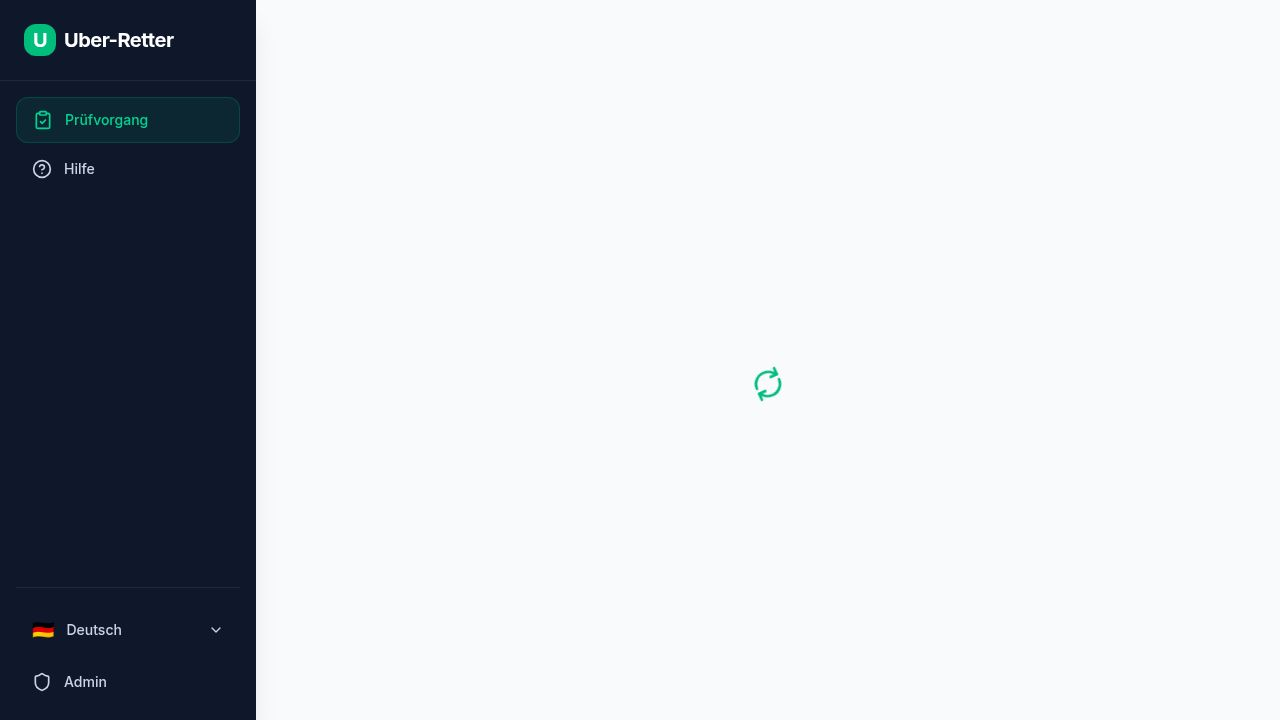
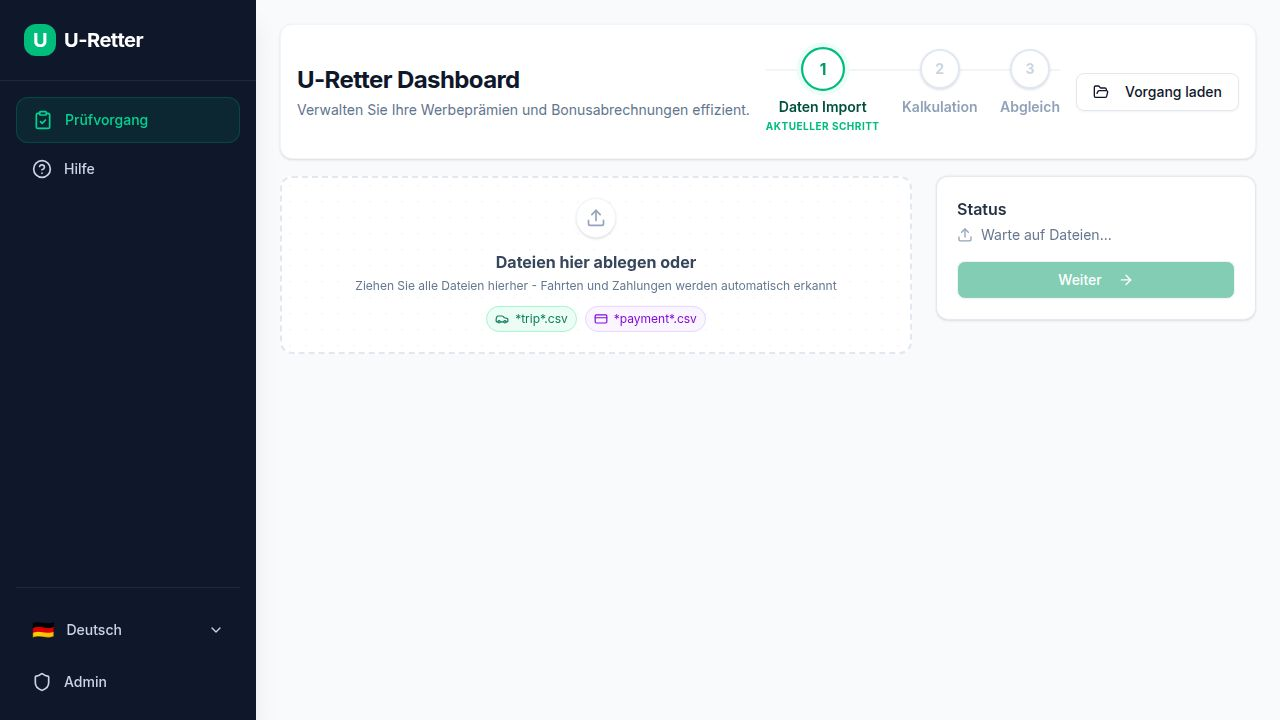
Improve session loading speed by optimizing trip data retrieval
Refactors session loading to use server-side aggregation for trip data, reducing payload size and improving client-side processing time.

Replit-Commit-Author: Agent
Replit-Commit-Session-Id: eda07c47-fa0f-4dfd-ad98-edfbeb6350f6
Replit-Commit-Checkpoint-Type: full_checkpoint
Replit-Commit-Event-Id: 282b914e-87ee-4452-8d91-b7e6b608185f
Replit-Commit-Screenshot-Url: https://storage.googleapis.com/screenshot-production-us-central1/74f01f64-59c9-4fe7-973c-309debf47daa/eda07c47-fa0f-4dfd-ad98-edfbeb6350f6/ajdi8i1
Replit-Helium-Checkpoint-Created: true

diff --git a/client/src/pages/dashboard.tsx b/client/src/pages/dashboard.tsx
@@ -8,7 +8,7 @@ import { DashboardLayout } from "@/components/layout";
 import { Card, CardContent } from "@/components/ui/card";
 import { Dialog, DialogContent, DialogHeader, DialogTitle, DialogDescription, DialogFooter } from "@/components/ui/dialog";
 import { UberTrip, UberTransaction } from "@/lib/types";
-import { processTripsAndTransactions, getMonthHeaders, analyzeTransactions, TransactionMatch } from "@/lib/data-processor";
+import { processTripsAndTransactions, processAggregatedTripsAndTransactions, getMonthHeaders, analyzeTransactions, TransactionMatch, AggregatedTrip } from "@/lib/data-processor";
 import { generateMockTrips, generateMockTransactions } from "@/lib/mock-data";
 import { RefreshCw, CarFront, BadgeEuro, ArrowRight, CheckCircle, AlertTriangle, Copy, Check, FolderOpen, Eye, CheckCircle2, XCircle, Plus, Upload, Download, AlertCircle } from "lucide-react";
 import { useToast } from "@/hooks/use-toast";
@@ -58,7 +58,8 @@ export default function Dashboard() {
   const showProgress = isProcessing || progress.isActive || uploadProgress !== null;
 
   const currentStep = sessionData?.currentStep || 1;
-  const trips = sessionData?.trips || [];
+  const aggregatedTrips: AggregatedTrip[] = sessionData?.aggregatedTrips || [];
+  const tripCount = sessionData?.tripCount || 0;
   const transactions = sessionData?.transactions || [];
 
   const updateStepMutation = useMutation({
@@ -176,14 +177,15 @@ export default function Dashboard() {
   };
 
   const { summaries, monthHeaders, totals, transactionAnalysis } = useMemo(() => {
-    if (trips.length === 0) return { 
+    if (aggregatedTrips.length === 0) return { 
       summaries: [], 
       monthHeaders: [], 
       totals: { trips: 0, bonus: 0, paid: 0, diff: 0 },
       transactionAnalysis: { matched: [], unmatched: [] }
     };
 
-    const processed = processTripsAndTransactions(trips, transactions);
+    // Use server-side aggregated trip data instead of processing raw trips
+    const processed = processAggregatedTripsAndTransactions(aggregatedTrips, transactions);
     const months = getMonthHeaders(processed);
     
     const totalTrips = processed.reduce((acc, curr) => acc + curr.totalCount, 0);
@@ -200,7 +202,7 @@ export default function Dashboard() {
       totals: { trips: totalTrips, bonus: totalBonus, paid: totalPaid, diff: totalDiff },
       transactionAnalysis: analysis
     };
-  }, [trips, transactions]);
+  }, [aggregatedTrips, transactions]);
 
   const loadMockData = async () => {
     setIsProcessing(true);
@@ -339,7 +341,7 @@ export default function Dashboard() {
     }
   };
 
-  const canContinue = pendingTrips.length > 0 || trips.length > 0;
+  const canContinue = pendingTrips.length > 0 || tripCount > 0;
 
   const exportTransactionsToExcel = () => {
     const matchedData = transactionAnalysis.matched.map(item => ({
@@ -433,7 +435,7 @@ export default function Dashboard() {
               <FolderOpen className="w-4 h-4 mr-2" />
               {t('dashboard.loadProcess')}
             </Button>
-            {(currentStep === 2 || currentStep === 3) && trips.length > 0 && (
+            {(currentStep === 2 || currentStep === 3) && tripCount > 0 && (
               <Button 
                 data-testid="button-add-more-data"
                 variant="outline" 
@@ -444,7 +446,7 @@ export default function Dashboard() {
                 {t('dashboard.addMoreData')}
               </Button>
             )}
-            {(trips.length > 0 || pendingTrips.length > 0) && (
+            {(tripCount > 0 || pendingTrips.length > 0) && (
               <Button 
                 data-testid="button-reset"
                 variant="ghost" 
@@ -577,7 +579,7 @@ export default function Dashboard() {
           </div>
         )}
 
-        {!isTransitioning && (currentStep === 2 || currentStep === 3) && trips.length > 0 && (
+        {!isTransitioning && (currentStep === 2 || currentStep === 3) && tripCount > 0 && (
           <div className="space-y-6 animate-in fade-in slide-in-from-bottom-4 duration-500">
             
             {vorgangsId && (

diff --git a/client/src/lib/data-processor.ts b/client/src/lib/data-processor.ts
@@ -48,6 +48,102 @@ export function processPaymentCSV(rawData: any[]): UberTransaction[] {
     .filter(tx => tx["Kennzeichen"]);
 }
 
+export interface AggregatedTrip {
+  licensePlate: string;
+  month: string;
+  count: number;
+}
+
+export function processAggregatedTripsAndTransactions(
+  aggregatedTrips: AggregatedTrip[], 
+  transactions: UberTransaction[] = []
+): DriverSummary[] {
+  const driverMap = new Map<string, DriverSummary>();
+
+  const getDriver = (plate: string) => {
+    if (!plate) return null;
+    const normalizedPlate = plate.trim().toUpperCase().replace(/\s/g, '');
+    if (!driverMap.has(normalizedPlate)) {
+      driverMap.set(normalizedPlate, {
+        licensePlate: normalizedPlate,
+        stats: {},
+        totalCount: 0,
+        totalBonus: 0,
+        totalPaid: 0,
+        totalDifference: 0
+      });
+    }
+    return driverMap.get(normalizedPlate)!;
+  };
+
+  // Process pre-aggregated trip data from server
+  aggregatedTrips.forEach(agg => {
+    const driver = getDriver(agg.licensePlate);
+    if (!driver) return;
+    
+    const monthKey = agg.month;
+    if (!driver.stats[monthKey]) {
+      driver.stats[monthKey] = { monthKey, count: 0, bonus: 0, paidAmount: 0, difference: 0 };
+    }
+
+    driver.stats[monthKey].count += agg.count;
+  });
+
+  transactions.forEach(tx => {
+    const timestamp = tx["Zeitpunkt"];
+    let date: Date;
+    
+    if (timestamp.includes('+')) {
+      date = parsePaymentTimestamp(timestamp);
+    } else {
+      date = parseISO(timestamp);
+    }
+    
+    const monthKey = format(startOfMonth(date), "yyyy-MM");
+    
+    const driver = getDriver(tx["Kennzeichen"]);
+    if (!driver) return;
+
+    if (!driver.stats[monthKey]) {
+      driver.stats[monthKey] = { monthKey, count: 0, bonus: 0, paidAmount: 0, difference: 0 };
+    }
+
+    const amount = typeof tx["Betrag"] === 'string' 
+      ? parseFloat((tx["Betrag"] as string).replace(',', '.')) 
+      : (tx["Betrag"] || 0);
+      
+    driver.stats[monthKey].paidAmount += amount;
+  });
+
+  const summaries = Array.from(driverMap.values()).map(driver => {
+    let totalCount = 0;
+    let totalBonus = 0;
+    let totalPaid = 0;
+    let totalDifference = 0;
+
+    Object.values(driver.stats).forEach(stat => {
+      if (stat.count > 699) {
+        stat.bonus = 400;
+      } else if (stat.count > 249) {
+        stat.bonus = 250;
+      } else {
+        stat.bonus = 0;
+      }
+      
+      stat.difference = stat.bonus - stat.paidAmount;
+
+      totalCount += stat.count;
+      totalBonus += stat.bonus;
+      totalPaid += stat.paidAmount;
+      totalDifference += stat.difference;
+    });
+
+    return { ...driver, totalCount, totalBonus, totalPaid, totalDifference };
+  });
+
+  return summaries.sort((a, b) => a.licensePlate.localeCompare(b.licensePlate));
+}
+
 export function processTripsAndTransactions(trips: UberTrip[], transactions: UberTransaction[] = []): DriverSummary[] {
   const driverMap = new Map<string, DriverSummary>();
 

diff --git a/server/routes.ts b/server/routes.ts
@@ -64,21 +64,22 @@ export async function registerRoutes(
     try {
       const sessionId = req.session.uberRetterSessionId!;
       const session = await storage.getOrCreateSession(sessionId);
-      const trips = await storage.getTripsBySession(sessionId);
-      const transactions = await storage.getTransactionsBySession(sessionId);
+      
+      // Use count to check if there's data
+      const [tripCount, transactionCount] = await Promise.all([
+        storage.getTripCountBySession(sessionId),
+        storage.getTransactionCountBySession(sessionId),
+      ]);
 
       let vorgangsId = session.vorgangsId;
-      if (!vorgangsId && trips.length > 0) {
+      if (!vorgangsId && tripCount > 0) {
         vorgangsId = await storage.generateVorgangsId(sessionId);
       }
 
-      const frontendTrips = trips.map(t => ({
-        "Kennzeichen": t.licensePlate,
-        "Zeitpunkt der Fahrtbestellung": t.orderTime.toISOString(),
-        "Fahrtstatus": t.tripStatus,
-        "Fahrt-ID": t.tripId || undefined,
-        ...t.rawData as any,
-      }));
+      // For sessions with many trips, use aggregated data
+      // This prevents loading 260,000+ rows into memory
+      const aggregatedTrips = await storage.getAggregatedTripsBySession(sessionId);
+      const transactions = await storage.getTransactionsBySession(sessionId);
 
       const frontendTransactions = transactions.map(tx => ({
         "Kennzeichen": tx.licensePlate,
@@ -92,7 +93,8 @@ export async function registerRoutes(
         sessionId,
         vorgangsId,
         currentStep: session.currentStep,
-        trips: frontendTrips,
+        tripCount,
+        aggregatedTrips,
         transactions: frontendTransactions,
       });
     } catch (error) {
@@ -127,17 +129,18 @@ export async function registerRoutes(
         return res.status(404).json({ error: "Keine Session mit dieser Vorgangs-ID gefunden" });
       }
 
-      const trips = await storage.getTripsBySession(session.sessionId);
+      // Use count instead of loading all trips
+      const tripCount = await storage.getTripCountBySession(session.sessionId);
       
-      if (trips.length === 0) {
+      if (tripCount === 0) {
         return res.status(404).json({ error: "Dieser Vorgang enthält keine Daten mehr" });
       }
 
       req.session.uberRetterSessionId = session.sessionId;
       
-      if (session.currentStep === 1 && trips.length > 0) {
-        const transactions = await storage.getTransactionsBySession(session.sessionId);
-        const newStep = transactions.length > 0 ? 3 : 2;
+      if (session.currentStep === 1 && tripCount > 0) {
+        const transactionCount = await storage.getTransactionCountBySession(session.sessionId);
+        const newStep = transactionCount > 0 ? 3 : 2;
         await storage.updateSessionActivity(session.sessionId, newStep);
       }
       

diff --git a/server/storage.ts b/server/storage.ts
@@ -41,6 +41,7 @@ export interface IStorage {
   createTrips(trips: InsertTrip[], onProgress?: OnProgressCallback): Promise<Trip[]>;
   getTripsBySession(sessionId: string): Promise<Trip[]>;
   getTripCountBySession(sessionId: string): Promise<number>;
+  getAggregatedTripsBySession(sessionId: string): Promise<{ licensePlate: string; month: string; count: number }[]>;
   deleteTripsForSession(sessionId: string): Promise<void>;
   
   // Transaction management
@@ -201,6 +202,20 @@ export class DatabaseStorage implements IStorage {
       .from(trips)
       .where(eq(trips.sessionId, sessionId));
     return result[0]?.count || 0;
+  }
+
+  async getAggregatedTripsBySession(sessionId: string): Promise<{ licensePlate: string; month: string; count: number }[]> {
+    const result = await db.execute(sql`
+      SELECT 
+        license_plate as "licensePlate",
+        TO_CHAR(order_time, 'YYYY-MM') as month,
+        COUNT(*)::int as count
+      FROM trips
+      WHERE session_id = ${sessionId}
+      GROUP BY license_plate, TO_CHAR(order_time, 'YYYY-MM')
+      ORDER BY license_plate, month
+    `);
+    return result.rows as { licensePlate: string; month: string; count: number }[];
   }
 
   async deleteTripsForSession(sessionId: string): Promise<void> {
